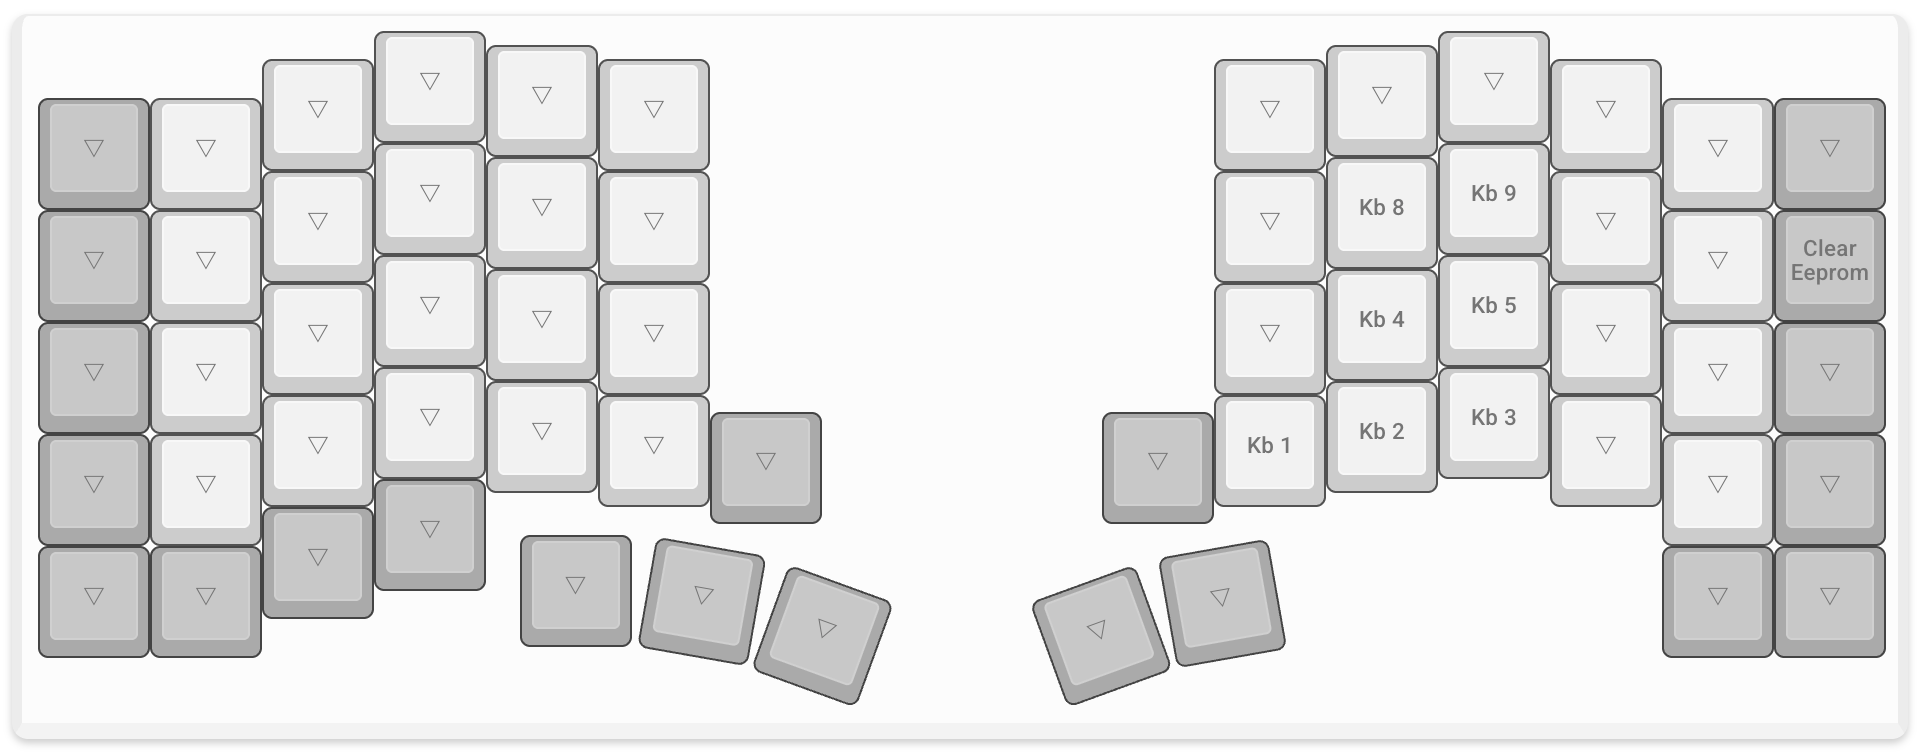
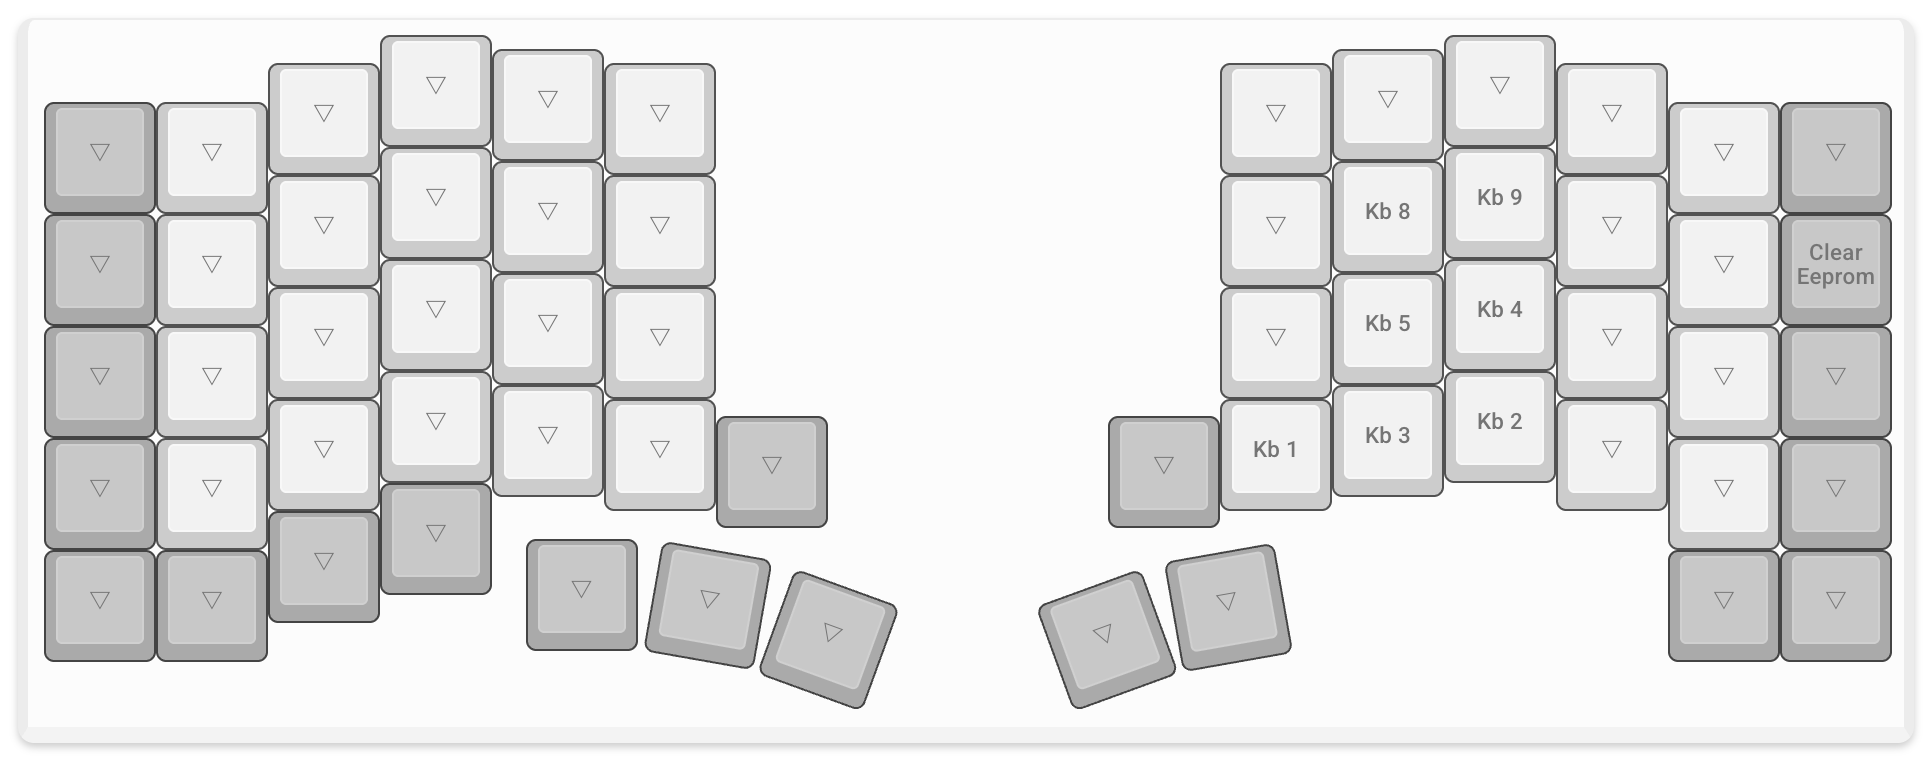
設定レイヤーの速さのキーを、左が下げる・右が上げるにそろえる

diff --git a/qmk_firmware/keyboards/keyball/keyball61/keymaps/my-keymap/keymap.c b/qmk_firmware/keyboards/keyball/keyball61/keymaps/my-keymap/keymap.c
@@ -82,15 +82,16 @@ const uint16_t PROGMEM keymaps[][MATRIX_ROWS][MATRIX_COLS] = {
   ),
   // 設定（Keyball の設定。このレイヤーを押している間はスクロールモードになる）
   //   右手: Keyball の設定キー。左手の親指でこのレイヤーに入ったまま、右手で押す
+  //     どの組も、左のキーが遅く、右のキーが速くする
   //     N: 設定を保存  M ,: カーソルの速さ（100 ずつ）  J K: カーソルの速さ（1000 ずつ）
-  //     U I: ボールでのスクロールの速さ
+  //     U I: ボールでのスクロールの速さ（SCRL_DVI は割る数を増やすので遅くなる）
   //     ほかの Keyball の設定キーは、押しても働かないか、オートマウスレイヤーを止めてしまうので置いていない
   //   P の右隣: EEPROM を消す
   [4] = LAYOUT_universal(
     _______        , _______    , _______    , _______       , _______           , _______         ,                                   _______       , _______       , _______    , _______ , _______ , _______ ,
     _______        , _______    , _______    , _______       , _______           , _______         ,                                   _______       , SCRL_DVI      , SCRL_DVD   , _______ , _______ , EE_CLR  ,
-    _______        , _______    , _______    , _______       , _______           , _______         ,                                   _______       , CPI_I1K       , CPI_D1K    , _______ , _______ , _______ ,
-    _______        , _______    , _______    , _______       , _______           , _______         , _______       , _______         , KBC_SAVE      , CPI_I100      , CPI_D100   , _______ , _______ , _______ ,
+    _______        , _______    , _______    , _______       , _______           , _______         ,                                   _______       , CPI_D1K       , CPI_I1K    , _______ , _______ , _______ ,
+    _______        , _______    , _______    , _______       , _______           , _______         , _______       , _______         , KBC_SAVE      , CPI_D100      , CPI_I100   , _______ , _______ , _______ ,
     _______        , _______    , _______    , _______       , _______           , _______         , _______       , _______         , _______       , XXXXXXX       , XXXXXXX    , XXXXXXX , _______ , _______
   ),
 };

diff --git a/qmk_firmware/keyboards/keyball/keyball61/keymaps/my-keymap/README.md b/qmk_firmware/keyboards/keyball/keyball61/keymaps/my-keymap/README.md
@@ -156,8 +156,8 @@ C のキーは、そのまま押すと `:`、Shift を押しながら押すと `
 | キー        | Remap での表示     | 動き                          |
 | --------- | -------------- | --------------------------- |
 | N         | `Kb 1`         | 設定を保存する                     |
-| M・`,`     | `Kb 2`・`Kb 3`  | カーソルを少し速く・遅くする（CPI ± 100）   |
-| J・K       | `Kb 4`・`Kb 5`  | カーソルを大きく速く・遅くする（CPI ± 1000） |
+| M・`,`     | `Kb 3`・`Kb 2`  | カーソルを少し遅く・速くする（CPI ∓ 100）   |
+| J・K       | `Kb 5`・`Kb 4`  | カーソルを大きく遅く・速くする（CPI ∓ 1000） |
 | U・I       | `Kb 8`・`Kb 9`  | ボールでのスクロールを遅く・速くする          |
 | Backspace | `Clear Eeprom` | 保存した設定とキー配置を削除する（[5-2](#5-2-設定の削除)） |
 
